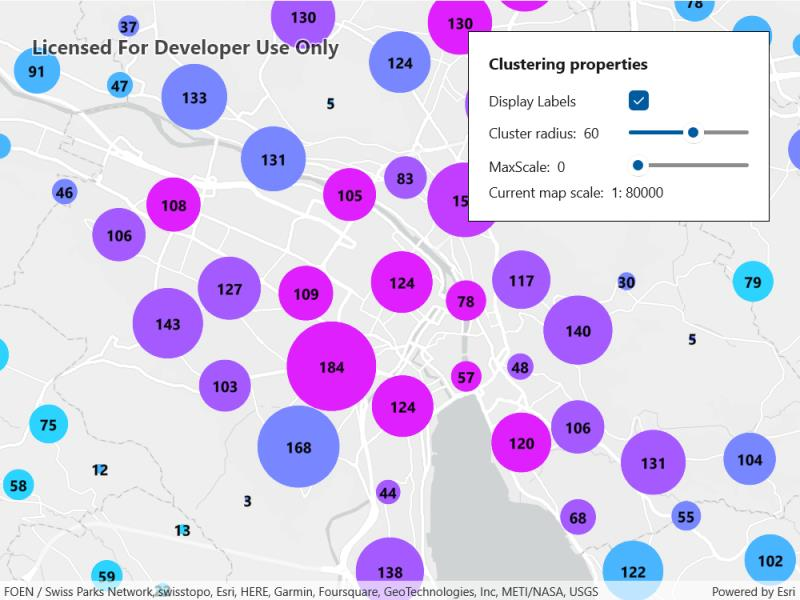
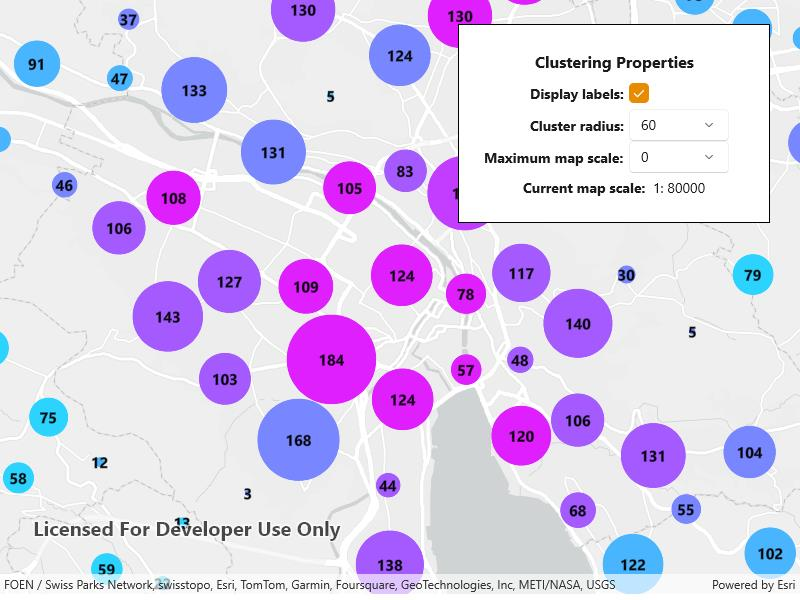
WinUI

diff --git a/src/WinUI/ArcGIS.WinUI.Viewer/Samples/Layers/AddClusteringFeatureReductionToAPointFeatureLayer/AddClusteringFeatureReductionToAPointFeatureLayer.xaml b/src/WinUI/ArcGIS.WinUI.Viewer/Samples/Layers/AddClusteringFeatureReductionToAPointFeatureLayer/AddClusteringFeatureReductionToAPointFeatureLayer.xaml
@@ -5,76 +5,96 @@
              xmlns:esriUI="using:Esri.ArcGISRuntime.UI.Controls">
     <Grid>
         <esriUI:MapView x:Name="MyMapView" />
-        <Border Width="auto" Style="{StaticResource BorderStyle}">
+        <Border Width="auto"
+                Height="auto"
+                Style="{StaticResource BorderStyle}">
             <StackPanel Orientation="Vertical">
                 <Button x:Name="DrawClustersButton"
+                        Padding="5"
+                        HorizontalAlignment="Center"
                         Click="DrawClustersButton_Click"
-                        Content="Draw clusters" />
-                <StackPanel x:Name="AddClusteringFeatureReductionToAPointFeatureLayerOptions"
-                            Orientation="Vertical"
-                            Visibility="Collapsed">
-                    <TextBlock Margin="0,0,0,10"
+                        Content="Draw clusters"
+                        IsEnabled="False" />
+                <Grid x:Name="ClusteringOptions" Visibility="Collapsed">
+                    <Grid.RowDefinitions>
+                        <RowDefinition Height="auto" />
+                        <RowDefinition Height="auto" />
+                        <RowDefinition Height="auto" />
+                        <RowDefinition Height="auto" />
+                        <RowDefinition Height="auto" />
+                    </Grid.RowDefinitions>
+                    <Grid.ColumnDefinitions>
+                        <ColumnDefinition Width="2*" />
+                        <ColumnDefinition Width="*" />
+                    </Grid.ColumnDefinitions>
+                    <TextBlock Grid.ColumnSpan="2"
+                               Padding="5"
+                               HorizontalAlignment="Center"
                                FontSize="16"
                                FontWeight="Bold"
-                               Text="Clustering properties" />
-                    <Grid Grid.RowDefinitions="auto,auto,auto,auto">
-                        <Grid.ColumnDefinitions>
-                            <ColumnDefinition Width="140" />
-                            <ColumnDefinition Width="*" />
-                        </Grid.ColumnDefinitions>
-                        <TextBlock Grid.Row="0"
-                                   Grid.Column="0"
-                                   VerticalAlignment="Center"
-                                   Text="Display Labels" />
-                        <CheckBox x:Name="DisplayLabelsCheckBox"
-                                  Grid.Row="0"
-                                  Grid.Column="1"
-                                  VerticalAlignment="Center"
-                                  Checked="DisplayLabelsCheckBox_CheckedChanged"
-                                  IsChecked="false"
-                                  Unchecked="DisplayLabelsCheckBox_CheckedChanged" />
-                        <TextBlock Grid.Row="1"
-                                   Grid.Column="0"
-                                   VerticalAlignment="Center">
-                            <Run Text="Cluster radius: " />
-                            <Run Text="{Binding ElementName=ClusterRadiusSlider, Path=Value, Mode=OneWay}" />
-                        </TextBlock>
-                        <Slider x:Name="ClusterRadiusSlider"
-                                Grid.Row="1"
-                                Grid.Column="1"
-                                VerticalAlignment="Center"
-                                Maximum="85"
-                                Minimum="30"
-                                ValueChanged="UpdateClusteringProperties" />
-                        <TextBlock Grid.Row="2"
-                                   Grid.Column="0"
-                                   VerticalAlignment="Center">
-                            <Run Text="MaxScale: " />
-                            <Run Text="{Binding ElementName=MaxScaleSlider, Path=Value, Mode=OneWay}" />
-                        </TextBlock>
-                        <Slider x:Name="MaxScaleSlider"
-                                Grid.Row="2"
-                                Grid.Column="1"
-                                VerticalAlignment="Center"
-                                Maximum="150000"
-                                Minimum="0"
-                                ValueChanged="UpdateClusteringProperties" />
-                        <TextBlock Grid.Row="3"
-                                   Grid.Column="0"
-                                   Grid.ColumnSpan="2"
-                                   VerticalAlignment="Center">
-                            <Run Text="Current map scale: " />
-                            <Run Text="1:" />
-                            <Run Text="{Binding ElementName=MyMapView, Path=MapScale, Mode=OneWay}" />
-                        </TextBlock>
-                    </Grid>
-                </StackPanel>
+                               Text="Clustering Properties" />
+                    <TextBlock Grid.Row="1"
+                               Grid.Column="0"
+                               Padding="5"
+                               HorizontalAlignment="Right"
+                               VerticalAlignment="Center"
+                               FontWeight="Bold"
+                               Text="Display labels:" />
+                    <CheckBox x:Name="DisplayLabelsCheckBox"
+                              Grid.Row="1"
+                              Grid.Column="1"
+                              VerticalAlignment="Center"
+                              Checked="DisplayLabelsCheckBox_CheckedChanged"
+                              IsChecked="false"
+                              Unchecked="DisplayLabelsCheckBox_CheckedChanged" />
+                    <TextBlock Grid.Row="2"
+                               Grid.Column="0"
+                               Padding="5"
+                               HorizontalAlignment="Right"
+                               VerticalAlignment="Center">
+                        <Run FontWeight="Bold" Text="Cluster radius:" />
+                        <Run Text="{Binding ElementName=ClusterRadiusSlider, Path=Value, Mode=OneWay}" />
+                    </TextBlock>
+                    <ComboBox x:Name="ClusterRadiusPicker"
+                              Grid.Row="2"
+                              Grid.Column="1"
+                              Width="100"
+                              HorizontalAlignment="Left"
+                              VerticalAlignment="Center"
+                              SelectionChanged="ClusterRadiusPicker_SelectionChanged" />
+                    <TextBlock Grid.Row="3"
+                               Grid.Column="0"
+                               Padding="5"
+                               HorizontalAlignment="Right"
+                               VerticalAlignment="Center">
+                        <Run FontWeight="Bold" Text="Maximum map scale:" />
+                        <Run Text="{Binding ElementName=MaxScaleSlider, Path=Value, Mode=OneWay}" />
+                    </TextBlock>
+                    <ComboBox x:Name="MaxScalePicker"
+                              Grid.Row="3"
+                              Grid.Column="1"
+                              Width="100"
+                              VerticalAlignment="Center"
+                              SelectionChanged="MaxScalePicker_SelectionChanged" />
+                    <TextBlock Grid.Row="4"
+                               Grid.Column="0"
+                               Grid.ColumnSpan="2"
+                               Padding="5"
+                               HorizontalAlignment="Center"
+                               VerticalAlignment="Center">
+                        <Run FontWeight="Bold" Text="Current map scale: " />
+                        <Run Text="1:" />
+                        <Run Text="{Binding ElementName=MyMapView, Path=MapScale, Mode=OneWay}" />
+                    </TextBlock>
+                </Grid>
             </StackPanel>
         </Border>
         <Grid x:Name="PopupBackground"
               Background="#AA333333"
               Visibility="Collapsed">
-            <Border HorizontalAlignment="Center" VerticalAlignment="Center">
+            <Border HorizontalAlignment="Center"
+                    VerticalAlignment="Center"
+                    Background="White">
                 <esriTK:PopupViewer x:Name="PopupViewer"
                                     MaxWidth="400"
                                     MaxHeight="400"

diff --git a/src/WinUI/ArcGIS.WinUI.Viewer/Samples/Layers/AddClusteringFeatureReductionToAPointFeatureLayer/AddClusteringFeatureReductionToAPointFeatureLayer.xaml.cs b/src/WinUI/ArcGIS.WinUI.Viewer/Samples/Layers/AddClusteringFeatureReductionToAPointFeatureLayer/AddClusteringFeatureReductionToAPointFeatureLayer.xaml.cs
@@ -3,8 +3,8 @@
 // Licensed under the Apache License, Version 2.0 (the "License"); you may not use this file except in compliance with the License.
 // You may obtain a copy of the License at: http://www.apache.org/licenses/LICENSE-2.0
 //
-// Unless required by applicable law or agreed to in writing, software distributed under the License is distributed on an 
-// "AS IS" BASIS, WITHOUT WARRANTIES OR CONDITIONS OF ANY KIND, either express or implied. See the License for the specific 
+// Unless required by applicable law or agreed to in writing, software distributed under the License is distributed on an
+// "AS IS" BASIS, WITHOUT WARRANTIES OR CONDITIONS OF ANY KIND, either express or implied. See the License for the specific
 // language governing permissions and limitations under the License.
 
 using Esri.ArcGISRuntime.ArcGISServices;
@@ -64,6 +64,10 @@ namespace ArcGIS.WinUI.Samples.AddClusteringFeatureReductionToAPointFeatureLayer
                 PopupBackground.Visibility = Visibility.Collapsed;
                 PopupViewer.PopupManager = null;
             };
+
+            // Enable the draw clusters button after the layer finishes loading.
+            await _layer.LoadAsync();
+            DrawClustersButton.IsEnabled = true;
         }
 
         private void CreateCustomFeatureReduction()
@@ -112,17 +116,22 @@ namespace ArcGIS.WinUI.Samples.AddClusteringFeatureReductionToAPointFeatureLayer
             // Set the feature reduction for the layer.
             _layer.FeatureReduction = _clusteringFeatureReduction;
 
-            // Set initial slider values.
+            // Populate the cluster radius and max scale pickers with default values.
+            ClusterRadiusPicker.ItemsSource = new double[] { 30, 45, 60, 75, 90 };
+            MaxScalePicker.ItemsSource = new double[] { 0, 1000, 5000, 10000, 50000, 100000, 500000 };
+
+            // Set initial picker values.
             // Note that the default value for cluster radius is 60.
             // Increasing the cluster radius increases the number of features that are grouped together into a cluster.
-            ClusterRadiusSlider.Value = _clusteringFeatureReduction.Radius;
+            ClusterRadiusPicker.SelectedItem = _clusteringFeatureReduction.Radius;
 
             // Note that the default value for max scale is 0.
             // The max scale value is the maximum scale at which clustering is applied.
-            MaxScaleSlider.Value = _clusteringFeatureReduction.MaxScale;
+            MaxScalePicker.SelectedItem = _clusteringFeatureReduction.MaxScale;
         }
 
         #region EventHandlers
+
         private void DisplayLabelsCheckBox_CheckedChanged(object sender, RoutedEventArgs e)
         {
             if ((bool)(sender as CheckBox).IsChecked)
@@ -139,17 +148,18 @@ namespace ArcGIS.WinUI.Samples.AddClusteringFeatureReductionToAPointFeatureLayer
             {
                 _clusteringFeatureReduction.LabelDefinitions.Clear();
             }
-
         }
 
-        private void UpdateClusteringProperties(object sender, Microsoft.UI.Xaml.Controls.Primitives.RangeBaseValueChangedEventArgs e)
+        private void ClusterRadiusPicker_SelectionChanged(object sender, SelectionChangedEventArgs e)
         {
             if (_layer != null)
-            {
-                // Update the feature reduction's cluster radius and max scale properties.
-                ((ClusteringFeatureReduction)_layer.FeatureReduction).Radius = ClusterRadiusSlider.Value;
-                ((ClusteringFeatureReduction)_layer.FeatureReduction).MaxScale = MaxScaleSlider.Value;
-            }
+                ((ClusteringFeatureReduction)_layer.FeatureReduction).Radius = (double)ClusterRadiusPicker.SelectedItem;
+        }
+
+        private void MaxScalePicker_SelectionChanged(object sender, SelectionChangedEventArgs e)
+        {
+            if (_layer != null)
+                ((ClusteringFeatureReduction)_layer.FeatureReduction).MaxScale = (double)MaxScalePicker.SelectedValue;
         }
 
         private async void MyMapView_GeoViewTapped(object sender, GeoViewInputEventArgs e)
@@ -164,13 +174,14 @@ namespace ArcGIS.WinUI.Samples.AddClusteringFeatureReductionToAPointFeatureLayer
             PopupViewer.PopupManager = new PopupManager(result.Popups.FirstOrDefault());
             PopupBackground.Visibility = Visibility.Visible;
         }
+
         private void DrawClustersButton_Click(object sender, RoutedEventArgs e)
         {
             // Create a new clustering feature reduction.
             CreateCustomFeatureReduction();
 
             // Show the feature reduction's clustering options.
-            AddClusteringFeatureReductionToAPointFeatureLayerOptions.Visibility = Visibility.Visible;
+            ClusteringOptions.Visibility = Visibility.Visible;
 
             // Add an event handler for tap events on the map view.
             MyMapView.GeoViewTapped += MyMapView_GeoViewTapped;
@@ -178,6 +189,7 @@ namespace ArcGIS.WinUI.Samples.AddClusteringFeatureReductionToAPointFeatureLayer
             // Hide the draw clusters button.
             DrawClustersButton.Visibility = Visibility.Collapsed;
         }
-        #endregion
+
+        #endregion EventHandlers
     }
 }
